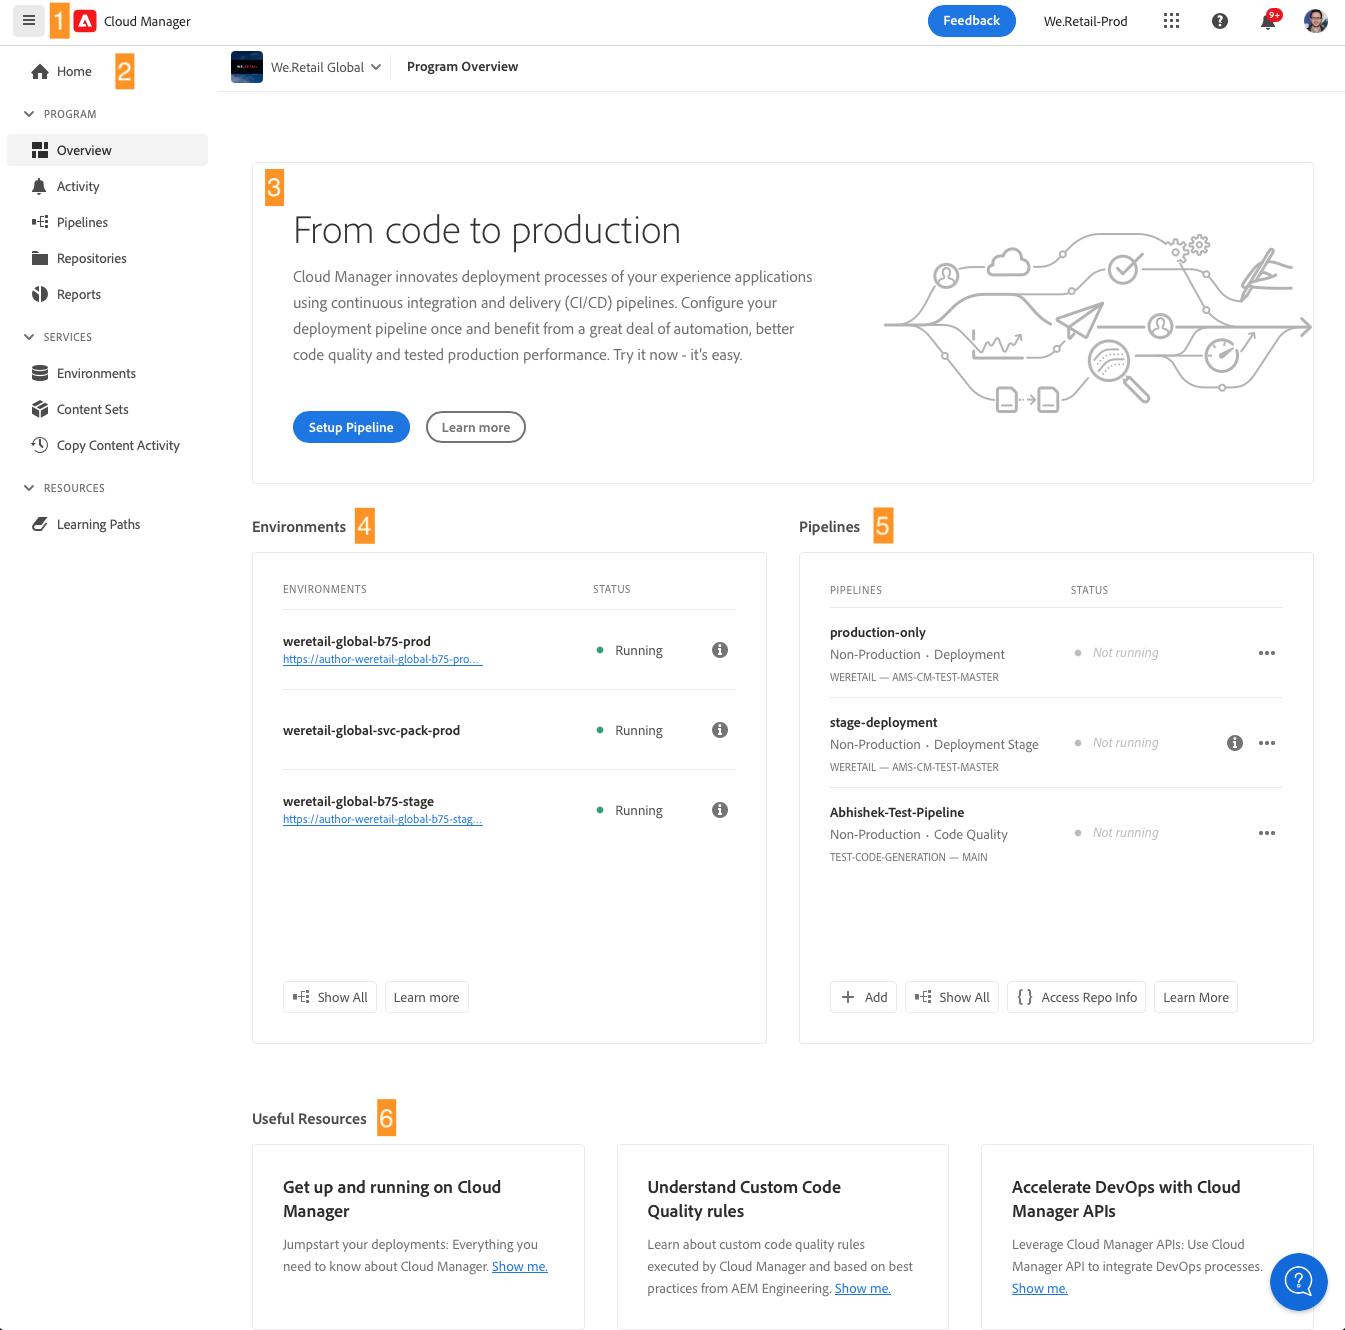
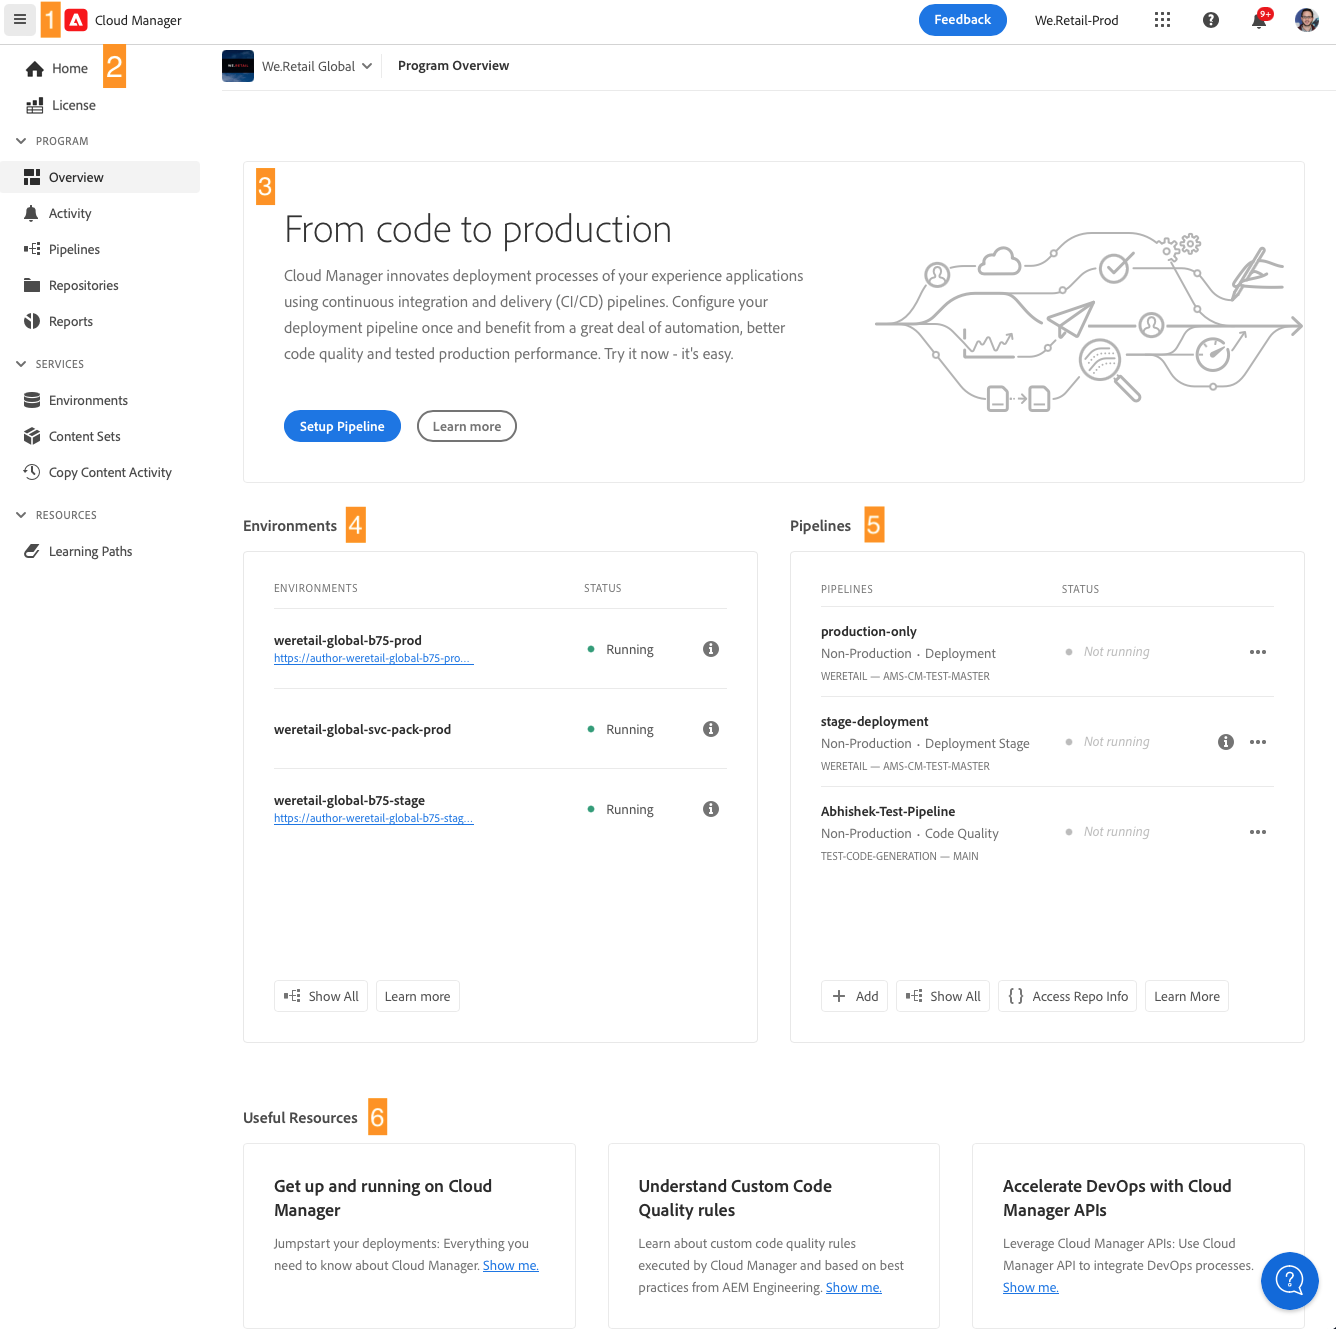
CQDOC-21852 updates to navigation UI

diff --git a/help/getting-started/navigation.md b/help/getting-started/navigation.md
@@ -3,16 +3,17 @@ title: Navigating the Cloud Manager UI
 description: Learn how the Cloud Manager UI is organized and how to navigate to manage your programs and environments.
 exl-id: 9c1545ce-1c6d-417f-a6f4-fe53caef3433
 ---
+
 # Navigating the Cloud Manger UI {#navigation}
 
 Learn how the Cloud Manager UI is organized and how to navigate to manage your programs and environments.
 
 The Cloud manage UI is primarily composed of two graphical interfaces:
 
-* [The My Programs console](#my-programs) where you can view and manage all of your programs.
+* [The My Programs console](#my-programs-console) where you can view and manage all of your programs.
 * [The Program Overview window](#program-overview) where you can see the detail of and manage an individual program.
 
-## My Programs Console {#my-programs}
+## My Programs Console {#my-programs-console}
 
 When you log into Cloud Manager at at [my.cloudmanager.adobe.com](https://my.cloudmanager.adobe.com/) and select the appropriate organization, you arrive at the **My Programs** console.
 
@@ -21,8 +22,13 @@ When you log into Cloud Manager at at [my.cloudmanager.adobe.com](https://my.clo
 The My Programs console provides an overview of all programs to which you have access in the selected organization. It is made up of several parts.
 
 1. [Toolbars](#toolbars-my-programs-toolbars) for organization selection, alerts, and account settings
-1. [Statistics and call-to-action](#statistics) for an overview of your recent activity
-1. [Programs and license](#programs-license) to understand your current license status and manage your programs
+1. Tabs that allow you to toggle the current view of your programs.
+   * **Home** view (default) that selects the **My Programs** view with an overview of all programs
+   * **License** that accesses the License Dashboard. The license dashboard only applies to AEM as a Cloud Service programs, not AMS programs.
+     * To determine the type of service your program has (AMS or AEMaaCS), please see the [Program Cards section](#program-cards) of this document.
+   * Note that the tabs default to closed and can be revealed using the hamburger menu in the [Cloud Manager header.](#cloud-manager-header)
+1. [Call-to-Actions and Statistics](#cta-statistics) for an overview of your recent activity
+1. [**My Programs** section](#my-programs-section) with an overview of all your programs
 1. [Quick links](#quick-links) to easily access related resources
 
 >[!TIP]
@@ -39,6 +45,9 @@ The first is the Cloud Manager header, which is persistent as you navigate Cloud
 
 ![The Experience Cloud header](assets/experience-cloud-header.png)
 
+1. The hamburger menu giving access to tabs that can take you to specific parts of a in individual program or switch between the License Dashboard and the **[My Programs](#my-programs-console)** console depending on context.
+   * The license dashboard only applies to AEM as a Cloud Service programs, not AMS programs.
+   * To determine the type of service your program has (AMS or AEMaaCS), please see the [Program Cards section](#program-cards) of this document.
 1. The Cloud Manager button will take you back to the My Programs console of Cloud Manager no matter where you are in Cloud Manager.
 1. Tap or click the Feedback button to provide feedback to Adobe about Cloud Manager.
 1. The organization selector displays the organization you are currently signed into (in this example, Foundation Internal). Tap or click to switch to another organization if your Adobe ID is associated with multiple.
@@ -58,9 +67,9 @@ The program toolbar provides links to switch between Cloud Manager programs and 
    * Note that the onboarding journey is designed for AEM as a Cloud Service and not Cloud Service for AMS, but many concepts are the same.
 1. The action button offers context-appropriate actions such as creating a new program.
 
-### Statistics {#statistics}
+### Call-to-Actions and Statistics {#cta-statistics}
 
-The statistics section provides aggregate data for your organization, for example, if you have successfully set up your programs, statistics of your activities over the past 90 days might show, including:
+The call-to-action and statistics section provides aggregate data for your organization, for example, if you have successfully set up your programs, statistics of your activities over the past 90 days might show, including:
 
 * Number of [deployments](/help/using/code-deployment.md)
 * Number of [code quality issues](/help/using/code-quality-testing.md) identified
@@ -68,13 +77,13 @@ The statistics section provides aggregate data for your organization, for exampl
 
 Or if you are just beginning the setup of your org, there might be tips on next steps or documentation resources.
 
-### Programs and License {#programs-license}
+### My Programs Section {#my-programs-section}
 
-The main content of the My Programs console is the list of programs and status of your license.
+The main content of the My Programs console is the **My Programs** section that lists your programs as individual cards. Tap or click on a card to access the **Program Overview** page of the program for details about the program.
 
-#### Programs Tab {#programs}
-
-The **Programs** tab lists cards representing each program to which you have access. Tap or click on a card to access the **Program Overview** page of the program for details about the program.
+>[!NOTE]
+>
+>Depending on your privileges you may not be able to select certain programs.
 
 Use the sorting options to better find the program you need.
 
@@ -88,13 +97,17 @@ Use the sorting options to better find the program you need.
 * Grid View (default)
 * List View
 
+#### Program Cards {#program-cards}
+
 Every program is represented by a card (or row in a table), providing an overview of the program and quick links to take action.
 
 ![Program card](assets/program-card.png)
 
 * Program image (if configured)
 * Program name
-* Service type: **Experience Manager Cloud** for [AEM as a Cloud Service programs](https://experienceleague.adobe.com/en/docs/experience-manager-cloud-service/content/implementing/home) or **Experience Manager** for AMS programs
+* Service type:
+  * **Experience Manager** for AMS programs
+  * **Experience Manager Cloud** for [AEM as a Cloud Service programs](https://experienceleague.adobe.com/en/docs/experience-manager-cloud-service/content/implementing/home)
 * Status
 * Configured solutions
 * Creation date
@@ -112,17 +125,13 @@ The ellipsis icon gives you access additional actions you can take on the progra
 * [Edit the program](/help/getting-started/program-setup.md)
 * Show Monitoring
 
-#### License Tab {#license-tab}
-
-The **License** tab gives you quick access to the license dashboard.
-
 ### Quick Links {#quick-links}
 
 The quick links section give you access to commonly-used, related resources.
 
 ## Program Overview Window {#program-overview}
 
-Once you select a program in the My Programs console, you are taken to the Program Overview.
+Once you select a program in the [**My Programs** console,](#my-programs-console) you are taken to the Program Overview.
 
 ![Program overview](assets/program-overview.png)
 
